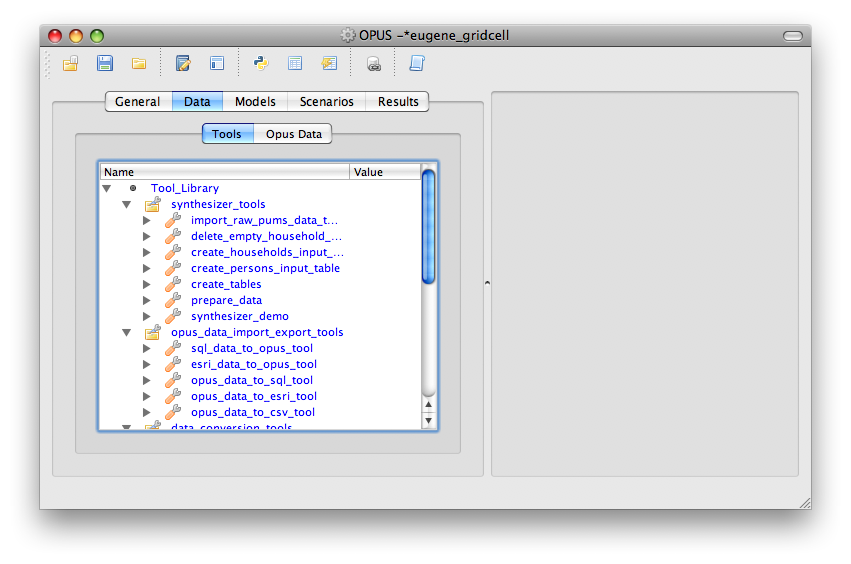
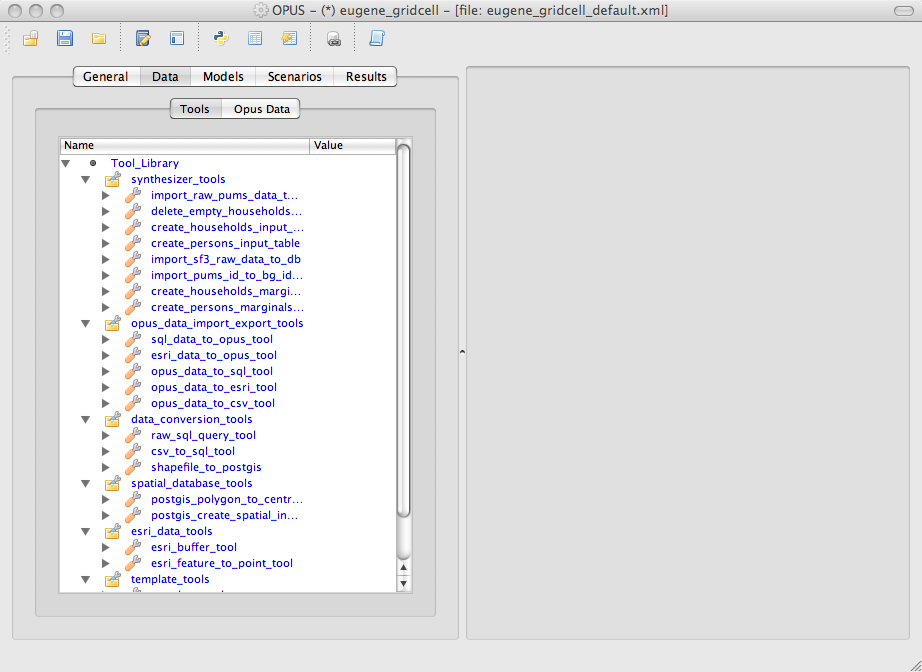
updated information on project_name
git-svn-id: https://svn.urbansim.org/trunk@15062 1513fa5d-83ce-422e-ae47-6967bb0fb594

diff --git a/opus_docs/manual/part-gui/data-manager.tex b/opus_docs/manual/part-gui/data-manager.tex
@@ -2,7 +2,18 @@
 The Data Manager has two primary purposes, each reflected in the sub-tabs.  One tab, the Opus Data tab, is for browsing, viewing, and exporting data from the Opus data cache.  The other tab, the Tools tab, is a place for storing and executing various tools provided by the Opus community or tools you have written.
 
 \section{Opus Data Tab}
-The Opus Data tab is a file browser that defaults to the folder in which your project creates data.  For instance, if you installed to c:/opus, and you are opening the Eugene sample project at c:/opus/project_configs/eugene_gridcell.xml, the data folder for this project is c:/opus/data/eugene_gridcell.  That is the folder that this view starts at.  Any subfolders and files are displayed in the tree view.  See Figure \ref{fig:opusdatatab}.
+
+The Opus Data tab is a file browser that defaults to the folder in which
+your project creates data.  This folder name is composed from the default 
+location for the Opus files, followed by \file{data}, followed by the project
+name.  The project name for the \file{eugene_gridcell_default.xml} project is
+``eugene\_gridcell.'' (This is given in the ``project\_name'' element in the xml.)
+Thus, if you installed to
+\file{c:/opus}, and you are opening the Eugene sample project at
+\file{c:/opus/project_configs/eugene_gridcell_default.xml}, the data folder
+for this project is \file{c:/opus/data/eugene_gridcell}.  That is the
+folder that this view starts at.  Any subfolders and files are displayed in
+the tree view.  See Figure \ref{fig:opusdatatab}.
 
 \begin{figure}[htp]
 \begin{center}
@@ -12,7 +23,15 @@ The Opus Data tab is a file browser that defaults to the folder in which your pr
 \label{fig:opusdatatab}
 \end{figure}
 
-There could be any number of subfolders here, but by default you will find a 'base_year_data' folder, and a 'runs' folder.  The base_year_data folder will normally contain an Opus 'database' folder.  An Opus database folder is any folder containing Opus 'datasets.'  Often Opus database folders are titled with a year, such as 2000.  Opus datasets are folders containing Opus 'data arrays.'  Opus datasets are equivalent to the tables in a database.  Opus data arrays are equivalent to the columns in a table, and are simply numpy arrays that have been written to disk in a binary format.  See Figure \ref{fig:db-dataset-array}.
+There could be any number of subfolders here, but by default you will find
+a \file{base_year_data} folder, and a \file{runs} folder.  The
+base_year_data folder will normally contain an Opus \file{database} folder.
+An Opus database folder is any folder containing Opus \file{datasets}.
+Often Opus database folders are titled with a year, such as 2000.  Opus
+datasets are folders containing Opus `data arrays.'  Opus datasets are
+equivalent to the tables in a database.  Opus data arrays are equivalent to
+the columns in a table, and are simply numpy arrays that have been written
+to disk in a binary format.  See Figure \ref{fig:db-dataset-array}.
 
 \begin{figure}[htp]
 \begin{center}
@@ -22,7 +41,16 @@ There could be any number of subfolders here, but by default you will find a 'ba
 \label{fig:db-dataset-array}
 \end{figure}
 
-The Opus data arrays are referred to throughout the documentation as 'primary attributes.'  Primary attributes are the actual data columns in a dataset.  Computed attributes are attributes computed from primary attributes via expressions.  For instance, if a parcels dataset contained the primary attributes population and area, a computed attribute called population_density could be computed by using the expression 'population_density = population/area'.  Once this expression is typed up and stored in your project in the Variable Library, it can be used in a model and would be computed as needed.  See the section on expressions elsewhere in this documentation to learn more details about expressions.
+The Opus data arrays are referred to throughout the documentation as
+`primary attributes.'  Primary attributes are the actual data columns in a
+dataset.  Computed attributes are attributes computed from primary
+attributes via expressions.  For instance, if a parcels dataset contained
+the primary attributes population and area, a computed attribute called
+population_density could be computed by using the expression
+\variable{population_density = population/area}.  Once this expression is
+entered and stored in your project in the Variable Library, it can be used
+in a model and would be computed as needed.  See Section
+\ref{sec:expressions} on expressions for more details on expressions.
 
 \subsection{Viewing and Browsing an Opus Data table}
 To view and browse the contents of an Opus dataset, right-click a data table, then select 'View Dataset'.  This will bring up a new tab on the right-hand side of the Opus GUI window that will display some summary statistics about the dataset, and a table view of the raw data that can be browsed and sorted by clicking the column name.  See Figure \ref{view-and-browse} for an example of browsing a data table.

diff --git a/opus_docs/manual/part-gui/introduction.tex b/opus_docs/manual/part-gui/introduction.tex
@@ -107,20 +107,24 @@ flexible, and has become widely used to store content in a structured form.
 
 Let's add add content to the GUI by loading a \emph{Project}, which is in
 fact, just an XML file containing configuration information.  From the main
-menu, load a project from \file{eugene_gridcell.xml}, which is in the
-default location of \file{opus/project_configs}.  The project name is shown
-in the title bar of the window.  The Opus window should now appear as in
-Figure \ref{fig:opus2}.  The project name has an asterisk in front of it
-(as in Figure \ref{fig:opus2}) if the project has unsaved changes.  Your
-project may well be marked as having unsaved changes immediately on opening
-it, since the GUI automatically scans for simulation runs on startup and
-enters those in a section of the XML configuration.
+menu, load a project from \file{eugene_gridcell_default.xml}, which is in
+the default location of \file{opus/project_configs}.  The project name and
+the file name are shown in the title bar of the window.  The Opus window
+should now appear as in Figure \ref{fig:opus2}.  In this case the project
+name is ``eugene\_gridcell'' and the file name is
+\file{eugene_gridcell_default.xml}.  The project name has an asterisk in
+front of it (as in Figure \ref{fig:opus2}) if the project has unsaved
+changes.  Your project may well be marked as having unsaved changes
+immediately on opening it, since the GUI automatically scans for simulation
+runs on startup and enters those in a section of the XML configuration.
+(The GUI will notify you via a popup window if it adds runs to the
+configuration.)
 
 \begin{figure}[htp]
 \begin{center}
 \includegraphics[scale=0.52]{part-gui/images/opus-open-project.png}
 \end{center}
-\caption{Opus GUI Main Window with eugene-gridcell Project Open}
+\caption{Opus GUI main window with the eugene\_gridcell project open}
 \label{fig:opus2}
 \end{figure}
 
@@ -138,13 +142,15 @@ directory.  This will allow them to keep projects localized in one place,
 and to avoid editing and possibly corrupting one of the projects that are
 in an Opus package in the source code tree.
 
-In fact, the \file{eugene_gridcell.xml} configuration that we just opened
-(in the default location of \file{opus/project_configs}) initially contains
-almost no information of its own --- virtually everything is inherited from
-a parent configuration.  As you edit and augment this configuration, more
-information will be stored in the configuration.  It can be saved to disk
-at any time using the ``Save'' or ``Save as \ldots'' commands on the
-``File'' menu.
+In fact, the \file{eugene_gridcell_default.xml} configuration that we just
+opened initially contains almost no information of its own --- virtually
+everything is inherited from a parent configuration.  As you edit and
+augment this configuration, more information will be stored in the
+configuration.  It can be saved to disk at any time using the ``Save'' or
+``Save as \ldots'' commands on the ``File'' menu.  We suggest saving the
+configuration under a new name, say \file{my_eugene_gridcell.xml}, and
+working from that, so that if you want to start over at some point
+\file{eugene_gridcell_default.xml} will still be there in its original state.
 
 There is more information on XML-based project configurations later in this part
 in Chapter \ref{chapter:xml-inheritance}, but the above information

diff --git a/opus_docs/manual/part-gui/xml-projects.tex b/opus_docs/manual/part-gui/xml-projects.tex
@@ -25,19 +25,19 @@ several configurations in your \file{opus/project_configs} directory, one
 inheriting from the other.  Ultimately, though, one or more of these
 configurations should inherit from a default configuration in the source
 code tree in \file{opus/src}.  For example, Figure
-\ref{fig:eugene-gridcell-xml-default} shows the contents of the default
-project for \file{eugene_gridcell} in \file{opus/project_configs}.  This
+\ref{fig:eugene-gridcell-xml-default} shows the contents of the
+\file{eugene_gridcell_default.xml} project in \file{opus/project_configs}.  This
 has almost no content of its own, but rather inherits everything but the
-description from the default configuration in the source code tree at
+description from the parent configuration in the source code tree at
 \file{eugene/configs/eugene_gridcell.xml}.
 
 \begin{figure}[htp]
 \begin{center}
 \begin{verbatim}
 <opus_project>
+  <xml_version>4.2.0-beta1</xml_version>
   <general>
-    <description type="string">Minimal user configuration for the Eugene 
-                               gridcell project</description>
+    <description type="string">Minimal user configuration for the Eugene gridcell project</description>
     <parent type="file">eugene/configs/eugene_gridcell.xml</parent>
   </general>
 </opus_project>
@@ -92,7 +92,7 @@ advanced feature in the XML in the parent in the source tree wouldn't show
 up in your configuration.
 
 When you first start up the GUI and open a project, we suggested starting
-with the default \file{eugene_gridcell.xml} configuration.  You can use the
+with the default \file{eugene_gridcell_default.xml} configuration.  You can use the
 ``Save as'' command to save it under a new file name, and in that way keep
 multiple configurations in your \file{opus/project_configs} directory.  You
 can change the parent of a configuration by editing its parent field under

diff --git a/opus_docs/manual/appendices/version-numbers.tex b/opus_docs/manual/appendices/version-numbers.tex
@@ -65,9 +65,9 @@ change in functionality, the version number for the main trunk will then
 move to the 4.3 series, for example 4.3-dev3377.
 
 Version numbers for the XML and sample data will track the source code
-numbers, except that since these change much less frequently, we'll use
-manually incremented numbers.  For example, 4.2.1-beta1 will be a beta
-version of the XML or sample data for upcoming stable release 4.2.1.
+numbers, except that since these change much less frequently, we use
+manually incremented numbers.  For example, 4.2.1-beta1 would be a beta
+version of the XML and sample data for upcoming stable release 4.2.1.
 
 {\bf Information for Developers.}  Please see the trac wiki for information
 on updating version numbers:

diff --git a/opus_docs/manual/part-gui/scenarios-manager.tex b/opus_docs/manual/part-gui/scenarios-manager.tex
@@ -154,7 +154,7 @@ run.
 
 To change any of the options in the XML tree you need to be able to edit
 it.  The initial version of the Eugene\_gridcell project in
-\file{opus_home/project_configs/eugene_gridcell.xml} has basically no
+\file{opus_home/project_configs/eugene_gridcell_default.xml} has basically no
 content of its own --- everything is inherited from the default Eugene
 gridcell configuration in the source code.  Inherited parts of the XML tree
 are shown in blue.  These can't be edited directly --- they just show
